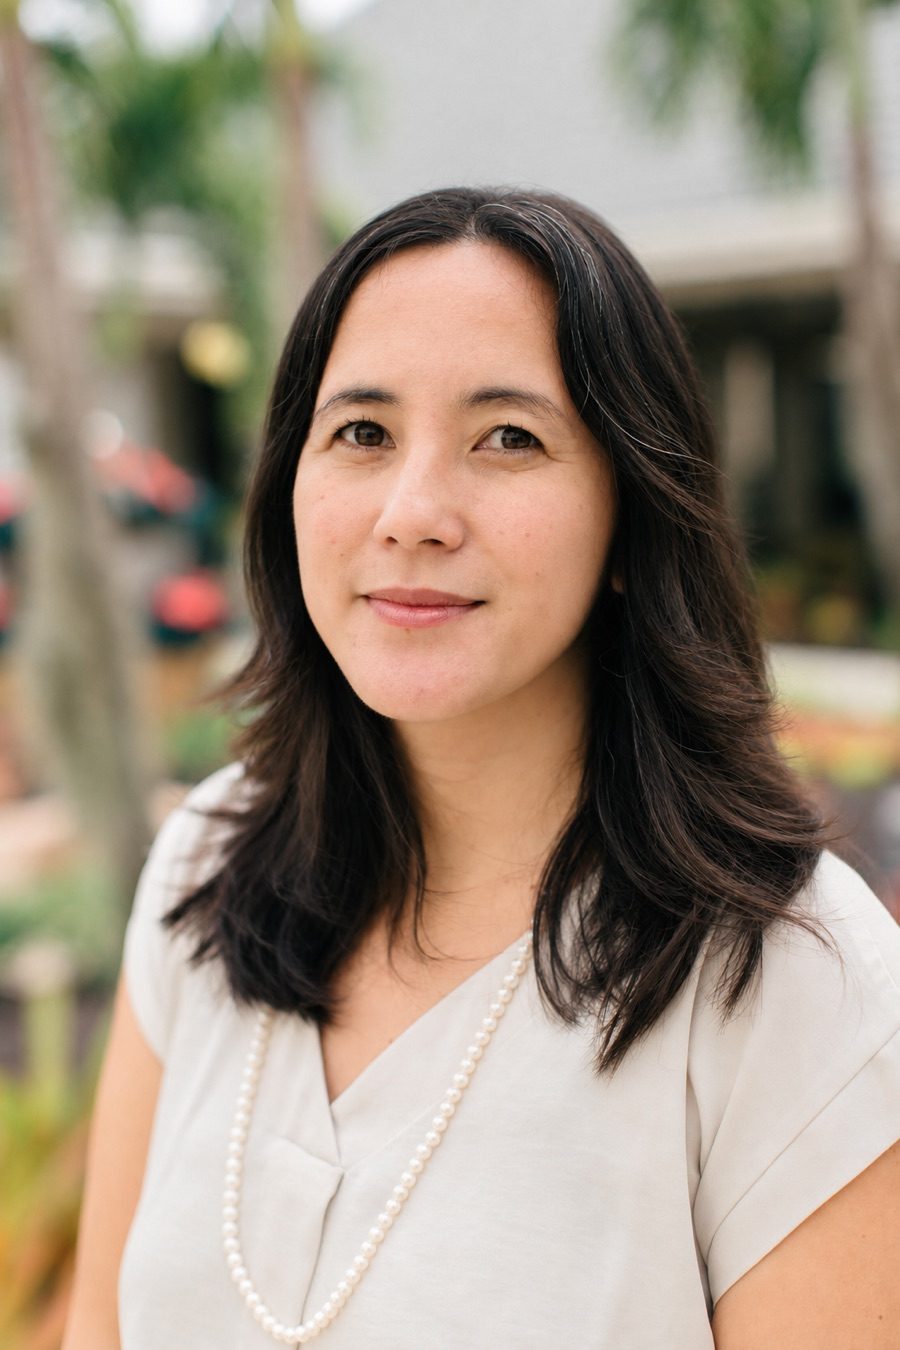
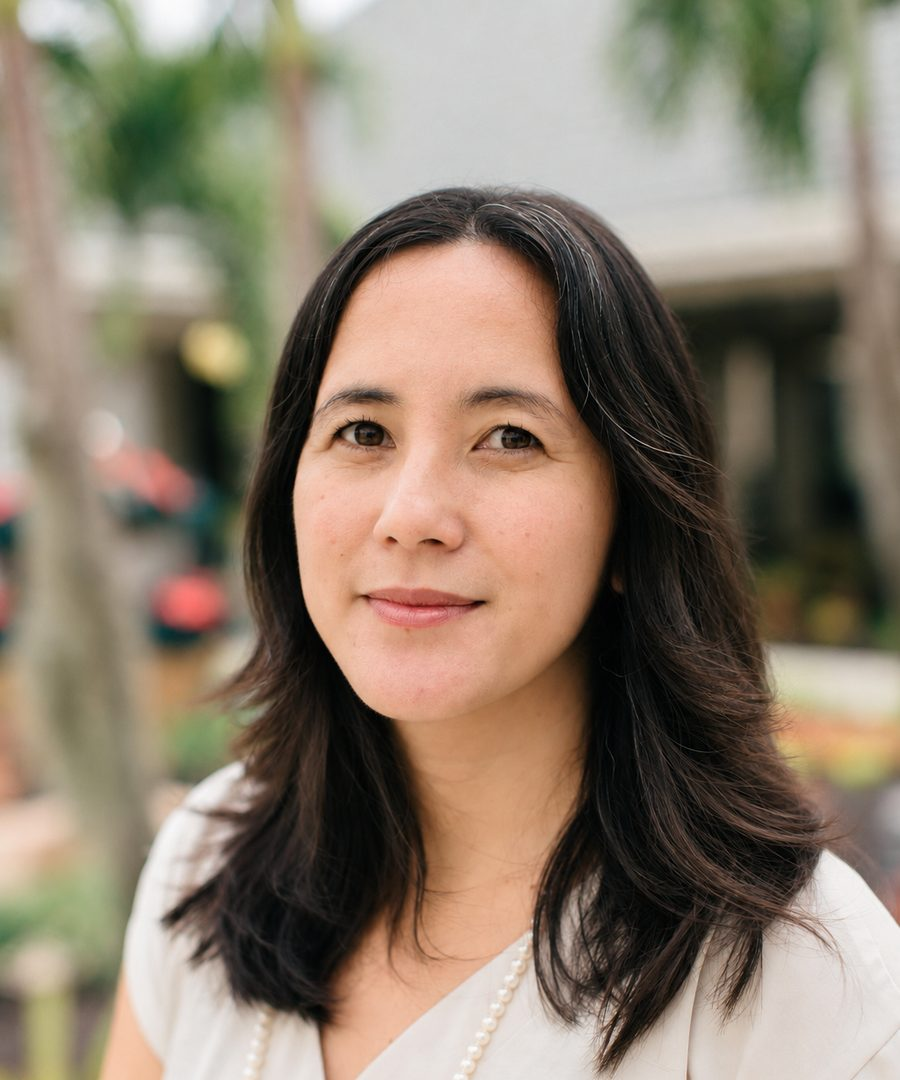
Crop headshot (drop bottom fifth), update dimensions to 900x1080
Cropped from the full-res original and re-optimized to 103KB. Tighter
mid-chest headshot; brown ring frame verified drawing live. Design-approved.

diff --git a/index.html b/index.html
@@ -675,7 +675,7 @@
     <div class="about-grid">
       <div class="about-photo">
         <div class="frame">
-          <img src="headshot.jpg" alt="Ligaya Beebe, AI Enablement Consultant" width="900" height="1350">
+          <img src="headshot.jpg" alt="Ligaya Beebe, AI Enablement Consultant" width="900" height="1080">
           <svg class="ring" viewBox="0 0 240 300" preserveAspectRatio="none"><path class="drawon" d="M120 6 C 200 4, 236 60, 232 150 C 229 240, 190 294, 116 296 C 44 298, 8 240, 8 150 C 8 58, 46 8, 120 6"/></svg>
         </div>
         <span class="cap">↳ let's build a culture of curiosity</span>
